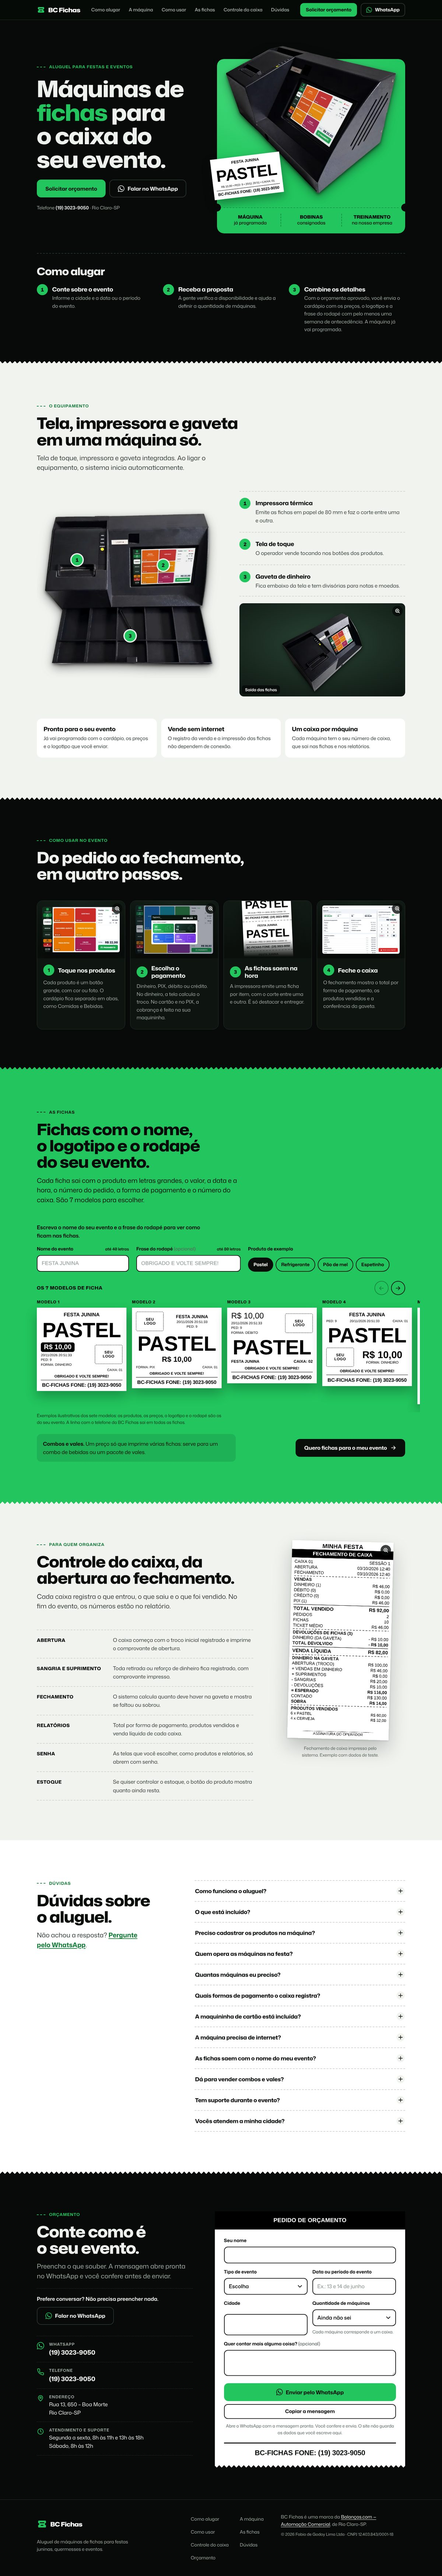
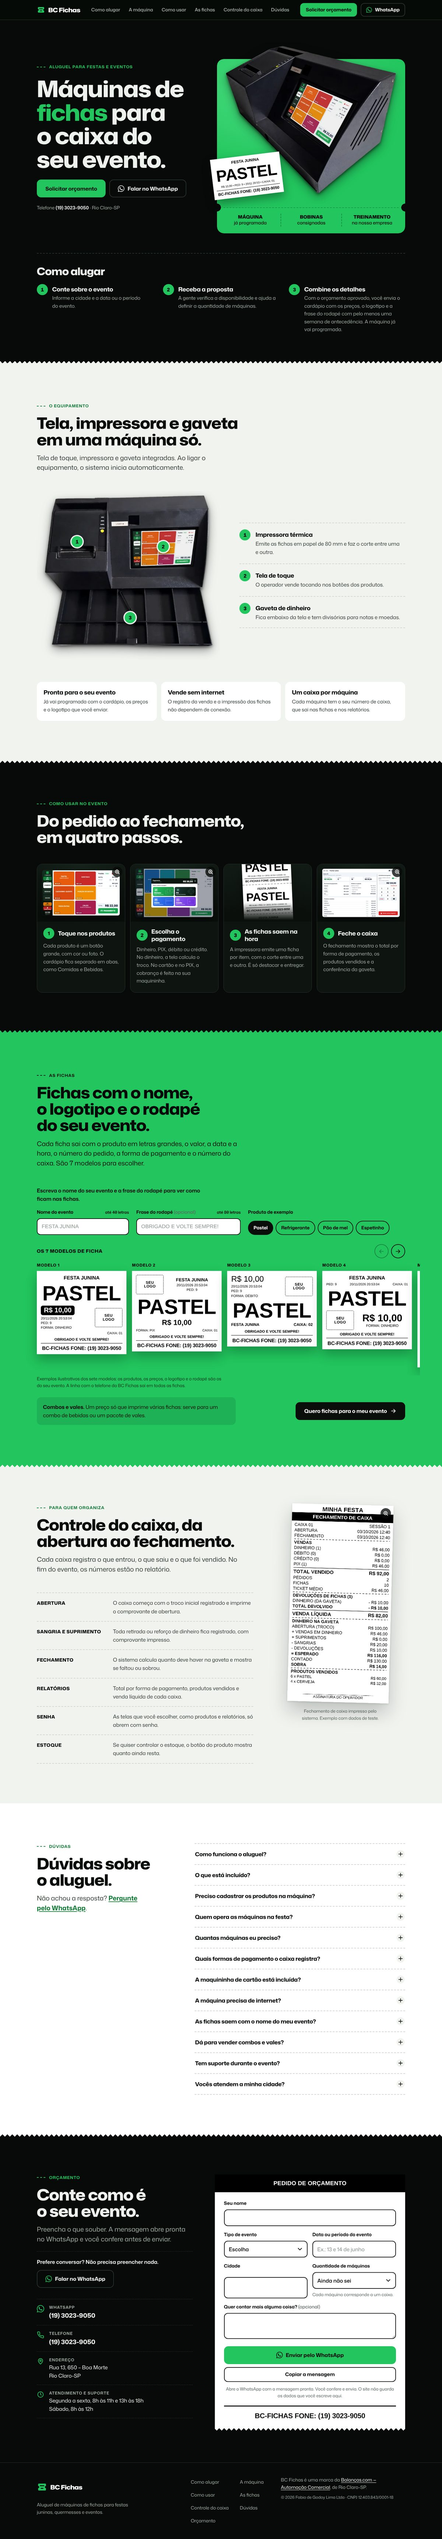
Retira a foto da saída das fichas
A pedido do responsável. A seção da máquina fica com a vista de cima
e a lista das três partes; saem também os arquivos e os estilos que
só essa galeria usava.

Claude-Session: https://claude.ai/code/session_01Jb1gVohqprNRxVwLM3BG3P

diff --git a/site/index.html b/site/index.html
@@ -29,7 +29,7 @@
 <link rel="preload" as="image" type="image/webp" fetchpriority="high"
       imagesrcset="img/maquina/maquina-frente-520.webp?v=2 520w, img/maquina/maquina-frente-800.webp?v=2 800w, img/maquina/maquina-frente-1200.webp?v=2 1200w"
       imagesizes="(min-width: 1000px) 50vw, 92vw">
-<link rel="stylesheet" href="css/site.css?v=5">
+<link rel="stylesheet" href="css/site.css?v=6">
 
 <script type="application/ld+json">
 {
@@ -285,15 +285,6 @@
             </div>
           </li>
         </ol>
-
-        <a class="foto foto--escura" href="img/maquina/maquina-impressora-1100.webp?v=2" data-amplia data-legenda="Lado da impressora, com a saída das fichas.">
-          <img src="img/maquina/maquina-impressora-760.webp?v=2"
-               srcset="img/maquina/maquina-impressora-480.webp?v=2 480w, img/maquina/maquina-impressora-760.webp?v=2 760w, img/maquina/maquina-impressora-1100.webp?v=2 1100w"
-               sizes="(min-width: 1000px) 22vw, 52vw" width="1100" height="1075" loading="lazy" decoding="async"
-               alt="A máquina vista pelo lado da impressora, com a saída das fichas em primeiro plano e a tela ligada ao fundo.">
-          <span class="foto__legenda">Saída das fichas</span>
-          <svg class="i foto__lupa" aria-hidden="true"><use href="#i-lupa"/></svg>
-        </a>
       </div>
     </div>
 

diff --git a/site/css/site.css b/site/css/site.css
@@ -361,19 +361,6 @@ p { text-wrap: pretty; }
 .anatomia__lista p { color: var(--tinta-2); }
 
 .anatomia__lado { display: grid; gap: 22px; min-width: 0; }
-.foto {
-  position: relative; display: block; overflow: hidden; aspect-ratio: 16 / 9; border-radius: 14px;
-  background: var(--tinta); color: var(--branco); text-decoration: none;
-}
-.foto img { width: 100%; height: 100%; object-fit: cover; object-position: 50% 30%; transition: scale .3s ease; }
-.foto:hover img { scale: 1.04; }
-.foto--escura { display: grid; place-items: end center; padding: 5% 8% 0; background: radial-gradient(90% 80% at 50% 42%, #2a4435 0%, #0b120e 100%); }
-.foto--escura img { width: auto; max-width: 100%; height: 100%; min-height: 0; object-fit: contain; }
-.foto__legenda {
-  position: absolute; left: 8px; bottom: 8px; max-width: calc(100% - 16px);
-  padding: 6px 10px; border-radius: 8px; background: rgba(7, 10, 8, 0.84);
-  font-size: 0.8125rem; font-weight: 600; line-height: 1.25;
-}
 .foto__lupa {
   position: absolute; right: 8px; top: 8px; width: 34px; height: 34px; padding: 7px; border-radius: 50%;
   background: rgba(7, 10, 8, 0.78); color: var(--branco);

diff --git a/site/404.html b/site/404.html
@@ -9,7 +9,7 @@
 <link rel="icon" href="/favicon.ico" sizes="32x32">
 <link rel="icon" href="/img/icone.svg" type="image/svg+xml">
 <link rel="preload" href="/fonts/mona-sans-latin.woff2" as="font" type="font/woff2" crossorigin>
-<link rel="stylesheet" href="/css/site.css?v=5">
+<link rel="stylesheet" href="/css/site.css?v=6">
 <style>
   .perdida { min-height: 100vh; min-height: 100svh; display: grid; place-items: center; padding-block: 48px; }
   .perdida__c { display: grid; gap: 28px; justify-items: center; text-align: center; }

diff --git a/ferramentas/processar-fotos.py b/ferramentas/processar-fotos.py
@@ -65,18 +65,6 @@ FOTOS = {
         "tela": {"quad": [(812, 351), (1251, 340), (1215, 590), (816, 604)], "vidro": 0.22, "reflexo": 0.10},
         "larguras": [1200, 800, 520],
     },
-    "maquina-impressora": {
-        "foto": "foto-09.jpg",
-        "excluir": [[(1215, 180), (1600, 180), (1600, 440), (1358, 440)]],
-        "retoques": {
-            "ref": (1078, 212, 1124, 256),
-            "poligonos": [[(992, 269), (1060, 226), (1073, 251), (1005, 296)]],
-            "circulos": [(977, 307, 7), (1140, 206, 7)],
-        },
-        "limpeza": {},
-        "tela": {"quad": [(885, 421), (1161, 240), (1245, 461), (996, 659)], "vidro": 0.10, "reflexo": 0.07},
-        "larguras": [1100, 760, 480],
-    },
 }
 
 SUPER = 4  # superamostragem da montagem (bordas lisas)

diff --git a/docs/TESTES.md b/docs/TESTES.md
@@ -1,6 +1,6 @@
 # Testes
 
-Refeitos em 20/11/2026, depois dos últimos ajustes (fotos limpas, textos e foto retirados e a opção de falar direto no WhatsApp). Todas as verificações abaixo foram executadas de verdade; o que não pôde ser testado está na última seção.
+Refeitos em 20/11/2026, depois dos últimos ajustes (fotos limpas, textos e fotos retirados e a opção de falar direto no WhatsApp). Todas as verificações abaixo foram executadas de verdade; o que não pôde ser testado está na última seção.
 
 **Como foi testado:** navegador Chromium controlado por roteiro (Playwright), abrindo a pasta `site/` num servidor local. O celular foi simulado (tamanho de tela, toque e proporção de um iPhone 13 e larguras de 360, 390 e 430 px). Não é o mesmo que um aparelho real.
 
@@ -10,12 +10,12 @@ Refeitos em 20/11/2026, depois dos últimos ajustes (fotos limpas, textos e foto
 |---|---|---|
 | 360, 390 e 430 px | Passou | Sem rolagem horizontal; título com 37 a 41 px, textos com 16 px ou mais e campos com 17 px; a máquina ocupa mais de 90% da largura. |
 | 799, 800, 960, 1024, 1039 e 1040 px | Passou | Em todas existe menu de seções e nada se sobrepõe no cabeçalho, agora com os botões de orçamento e de WhatsApp. Também conferido em 1239, 1240 e 1280 px, onde a navegação completa entra. |
-| 1280 e 1440 px | Passou | As 7 imagens carregam com resolução igual ou maior que o tamanho exibido; todas as seções alinham na mesma margem; parágrafos de apoio com cerca de 76 letras por linha. |
+| 1280 e 1440 px | Passou | As 6 imagens carregam com resolução igual ou maior que o tamanho exibido; todas as seções alinham na mesma margem; parágrafos de apoio com cerca de 76 letras por linha. |
 | Menu compacto | Passou | Abre e fecha por toque e por teclado (Enter, Esc com retorno do foco); escolher uma seção fecha o menu e leva até ela. |
 | Barra móvel e teclado virtual | Passou em parte | A barra mostra "Solicitar orçamento" e "WhatsApp", cabe em 320 px, some enquanto um campo está em foco e na seção de orçamento, e não cobre o fim do rodapé. O teclado virtual de um celular real não foi testado. |
 | Fichas | Passou | 7 modelos; nome com acentos e limite de 40 letras com contador; rodapé; troca de produto; setas, teclado e fim do carrossel; aviso de exemplo mantido. |
 | Orçamento | Passou | "Solicitar orçamento" leva ao formulário; há caminho direto para o WhatsApp no cabeçalho, no menu, na abertura, na barra, na seção de orçamento e nos contatos; a mensagem leva só o que foi preenchido; número (19) 3023-9050; "Copiar a mensagem" funciona; nenhum aviso de envio. |
-| Dúvidas e imagens ampliadas | Passou | Perguntas abrem e fecham pelo teclado com foco visível; as 5 imagens ampliáveis abrem com botão "Fechar", fecham com Esc e devolvem o foco. |
+| Dúvidas e imagens ampliadas | Passou | Perguntas abrem e fecham pelo teclado com foco visível; as 4 imagens ampliáveis abrem com botão "Fechar", fecham com Esc e devolvem o foco. |
 | Movimento e zoom | Passou | Com movimento reduzido não há animação nem rolagem suave; com zoom de 200% (640 e 320 px úteis) não há rolagem lateral nem texto cortado. |
 | Publicação | Em parte | Ver "Publicação" abaixo. |
 
@@ -93,11 +93,11 @@ Conferido em `bcfichas.vercel.app` logo depois do envio de 20/11/2026:
 
 ### Computador (1280 e 1440 px)
 
-- 1280px: todas as 7 imagens têm resolução igual ou maior que o tamanho exibido
+- 1280px: todas as 6 imagens têm resolução igual ou maior que o tamanho exibido
 - 1280px: sem rolagem horizontal
 - 1280px: todas as seções alinham na mesma margem (48px)
 - 1280px: parágrafos de apoio com cerca de 76 letras por linha, no máximo
-- 1440px: todas as 7 imagens têm resolução igual ou maior que o tamanho exibido
+- 1440px: todas as 6 imagens têm resolução igual ou maior que o tamanho exibido
 - 1440px: sem rolagem horizontal
 - 1440px: todas as seções alinham na mesma margem (120px)
 - 1440px: parágrafos de apoio com cerca de 76 letras por linha, no máximo
@@ -146,7 +146,7 @@ Conferido em `bcfichas.vercel.app` logo depois do envio de 20/11/2026:
 
 ### Imagens ampliadas
 
-- comprovante abre ampliado pelo teclado, com legenda, descrição e o foco no botão "Fechar" (5 imagens ampliáveis na página)
+- comprovante abre ampliado pelo teclado, com legenda, descrição e o foco no botão "Fechar" (4 imagens ampliáveis na página)
 - Esc fecha e o foco volta para a imagem que abriu
 - toque abre e o botão "Fechar" fecha
 

diff --git a/docs/PENDENCIAS.md b/docs/PENDENCIAS.md
@@ -44,7 +44,8 @@ Situação em 20/11/2026, com as respostas e os pedidos do responsável já apli
 
 - **Tela montada nas fotos.** O visor estava desligado; a tela do sistema foi aplicada sobre a foto. O aviso que o site trazia sobre isso foi retirado a pedido do responsável. O ideal continua sendo fotografar a máquina **ligada**.
 - **Limpeza das fotos.** A poeira e os risquinhos das chapas foram retirados no tratamento das imagens. Fotos novas, com a máquina limpa de verdade e boa luz, ficariam ainda melhores.
-- **Foto ou vídeo da emissão das fichas.** A foto da impressora aberta foi retirada a pedido do responsável. Uma foto ou um vídeo da ficha saindo ocuparia bem esse lugar; um vídeo entraria com reprodução por toque e imagem de capa.
+- **Fotos retiradas.** As duas fotos menores da seção da máquina (impressora aberta e saída das fichas) foram retiradas a pedido do responsável. Ficaram a foto da abertura e a vista de cima com a gaveta. As originais continuam em `materiais/fotos-originais/`.
+- **Foto ou vídeo da emissão das fichas.** Se um dia houver, cabe na seção da máquina; um vídeo entraria com reprodução por toque e imagem de capa.
 - **Outras fotos que fariam diferença:** a máquina em uso num evento e a gaveta com dinheiro.
 - **Fichas de exemplo:** os 7 modelos são ilustrações fiéis aos modelos reais do sistema, com "SEU LOGO" no lugar do logotipo e uma frase de exemplo no rodapé.
 
